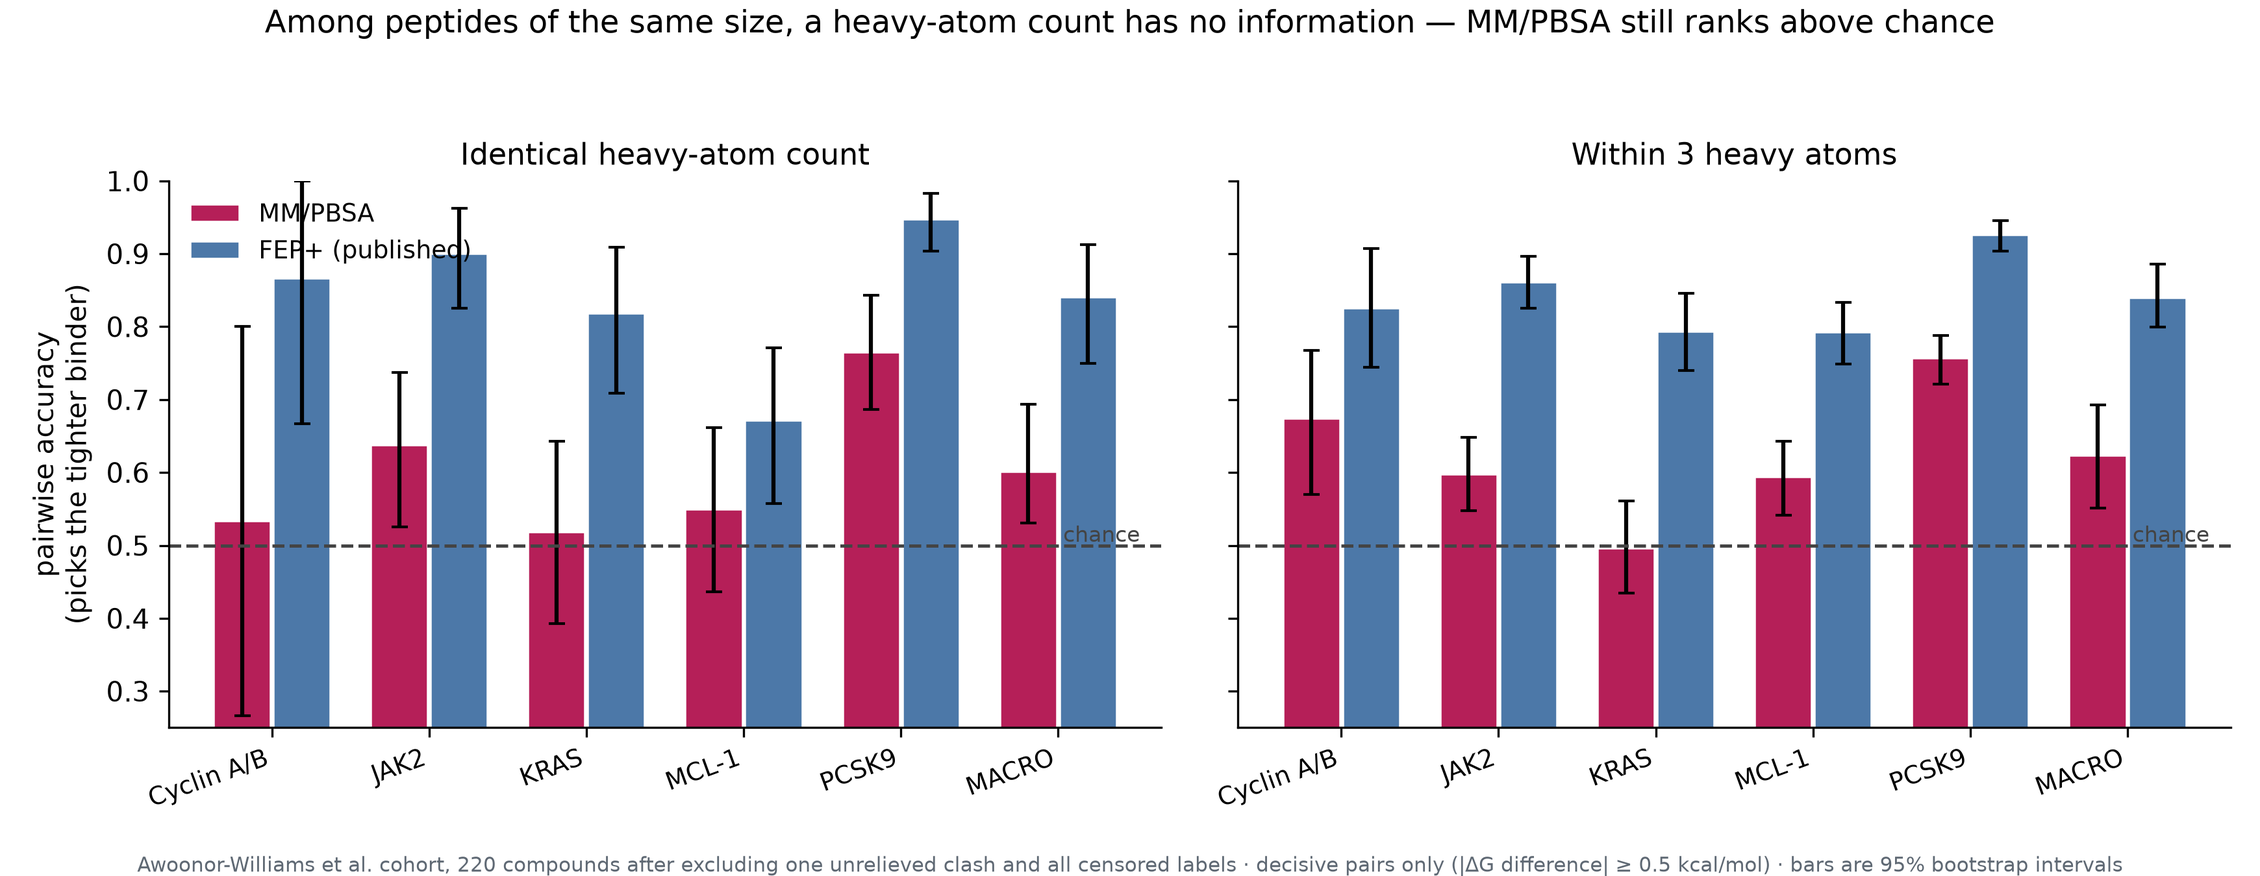
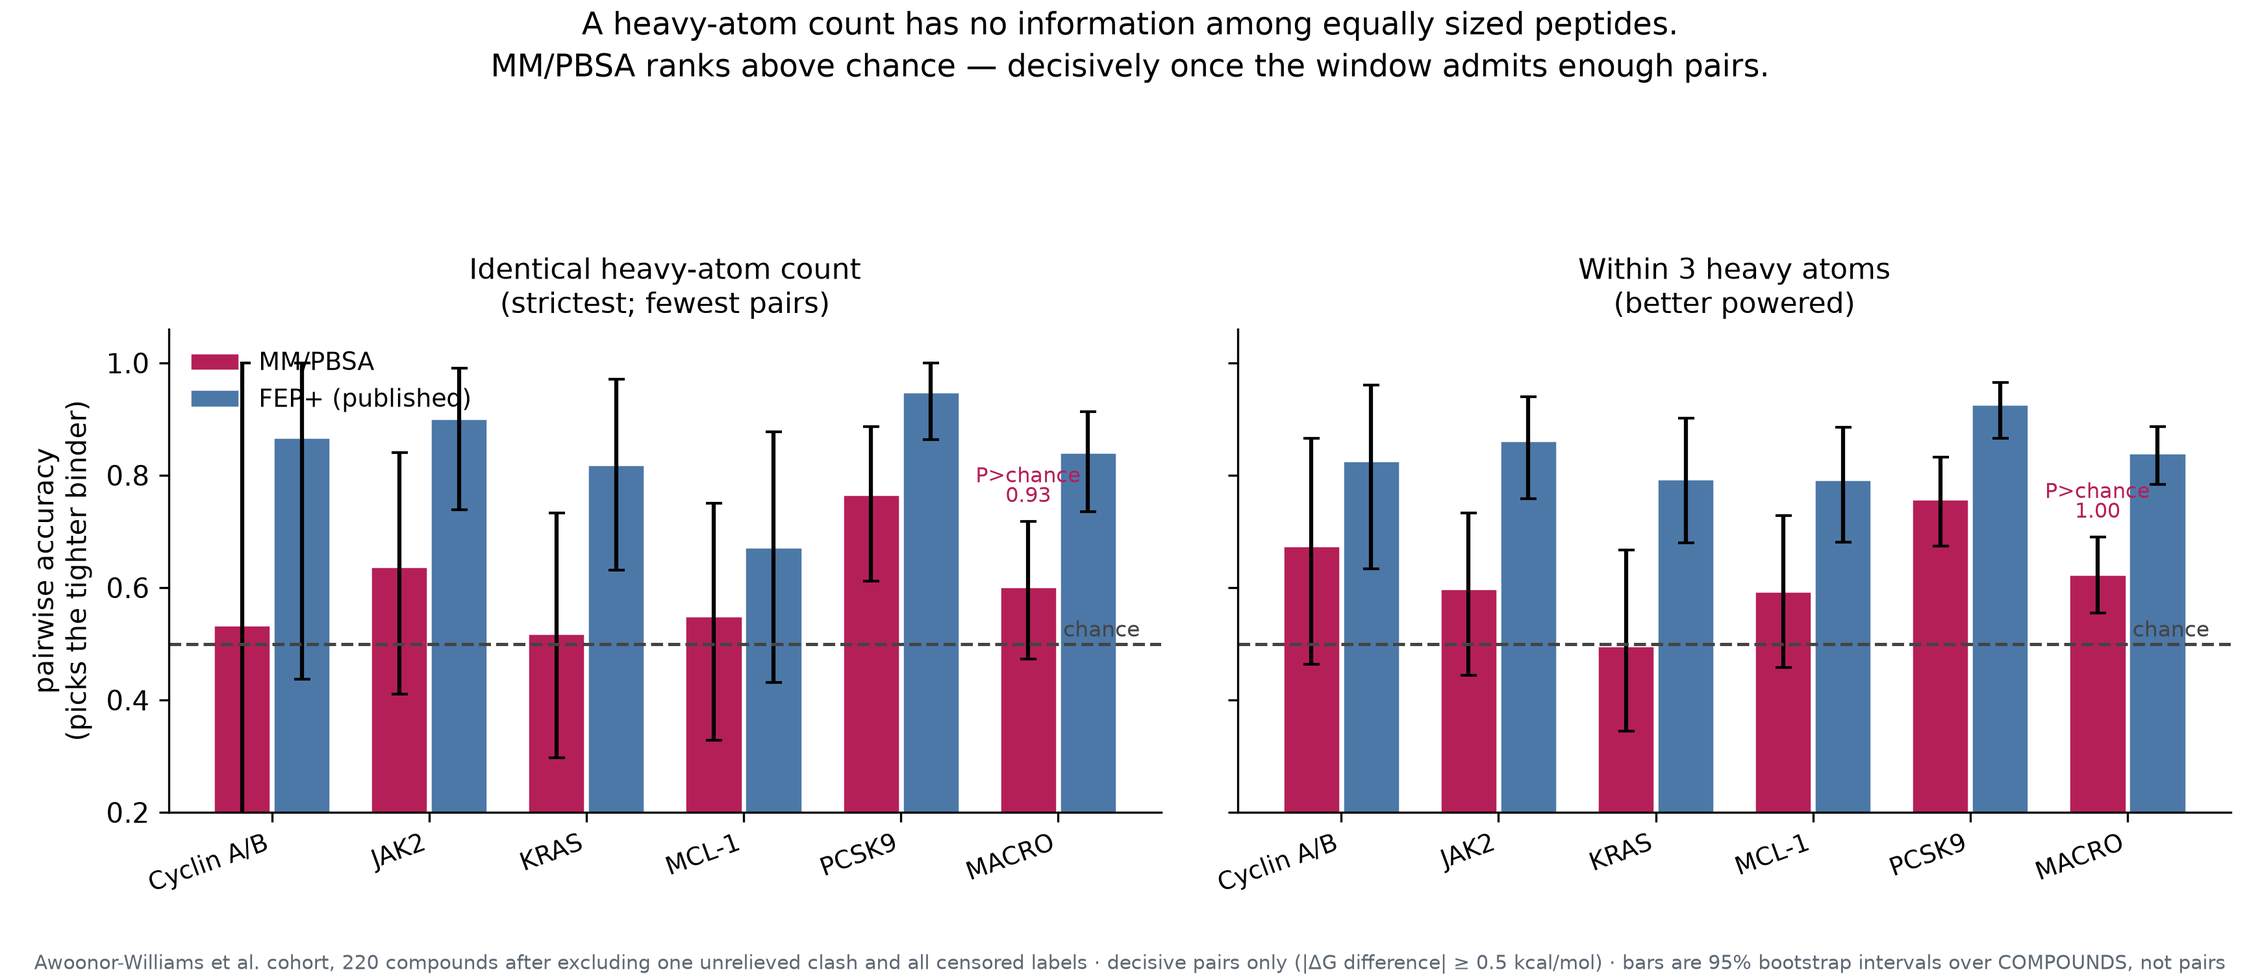
Manuscript v6: correct the bootstrap, pairs are not independent
The reported intervals resampled pairs. Pairs formed from n compounds are not independent
draws, because each compound appears in many of them, so resampling pairs understates the
uncertainty by roughly half. All pairwise intervals now resample compounds and rebuild the pair
set from each resample.

This changes the headline. At exactly equal heavy-atom count the macro estimate is unchanged at
0.601, but the interval widens from [0.530, 0.693] to [0.472, 0.720] and no longer excludes
chance; posterior mass above 0.5 is 0.93. The draft's statement that "the macro interval
excludes chance, so the skill is real" was therefore wrong as written.

The better-powered three-atom band does survive: 0.624 [0.555, 0.689], mass above chance
>0.999, against 0.602 for a heavy-atom count on the same pairs. That band is now the primary
analysis and the exact-match band is reported as the strictest but underpowered check, with
both shown rather than the more favourable one.

Per target, only PCSK9 is individually above chance at either band. JAK2's 0.637 at exact
matching becomes [0.397, 0.831] under compound resampling and cannot be separated from chance,
so the previous claim of two clearly-skilled targets is reduced to one.

Propagated to the abstract, discussion, limitations, figure, repo README and slide deck.

diff --git a/scripts/size_matched_pairwise_accuracy.py b/scripts/size_matched_pairwise_accuracy.py
@@ -1,10 +1,14 @@
 #!/usr/bin/env python3
 """Pairwise accuracy among size-matched peptides.
 
-The comparison that matters for lead optimisation: given two analogues of the same size,
-how often does a method pick the tighter binder?  A size descriptor cannot answer at all
-when the sizes are equal, which is the point -- it is a proxy for buried area, not a rival
+The comparison that matters for lead optimisation: given two analogues of the same size, how
+often does a method pick the tighter binder?  A size descriptor cannot answer at all when the
+sizes are equal, which is the point -- it is a proxy for buried interface area, not a rival
 scoring function.
+
+Intervals resample COMPOUNDS, not pairs.  Pairs drawn from n compounds share compounds and are
+not independent, so a pair-level bootstrap badly understates the uncertainty: on the exact-match
+band it gives [0.530, 0.693] where the compound-level interval is [0.472, 0.720].
 """
 import csv, itertools, os, random
 import numpy as np
@@ -16,15 +20,14 @@ G = os.path.expanduser('~/Desktop/Lab_computation_results.nosync/projects/'
                        'transferable-peptide-affinity-ranker-20260824/goals/'
                        'zha25-mmpbsa-replication-20260924/grand_results')
 OUT = os.path.expanduser('~/Downloads/lpta_methods_20260927/size_matched_pairwise_accuracy.png')
+MARGIN = 0.5
 
 rows = []
 for x in csv.DictReader(open(f'{G}/zha25_cohort_scores.csv')):
     if x.get('status') != 'ok':
         continue
     try:
-        if float(x['pb_2_VDWAALS']) > 0:          # unrelieved clash, pre-registered screen
-            continue
-        if x['censored'].strip().lower() in ('true', '1'):
+        if float(x['pb_2_VDWAALS']) > 0 or x['censored'].strip().lower() in ('true', '1'):
             continue
         rows.append(dict(t=x['target'], h=float(x['heavy_atoms']),
                          dg=float(x['experimental_dG_kcal_mol']), pb=float(x['pb_2']),
@@ -33,58 +36,72 @@ for x in csv.DictReader(open(f'{G}/zha25_cohort_scores.csv')):
     except (ValueError, KeyError):
         continue
 
-def flags(sub, band, margin=0.5):
-    out = []
+def acc(sub, key, band):
+    ok = tot = 0
     for a, b in itertools.combinations(sub, 2):
-        if abs(a['dg'] - b['dg']) < margin:
+        if abs(a['dg'] - b['dg']) < MARGIN or abs(a['h'] - b['h']) > band:
             continue
-        if band is not None and abs(a['h'] - b['h']) > band:
+        if a[key] is None or b[key] is None or a[key] == b[key]:
             continue
-        rec = {}
-        for key in ('pb', 'fep'):
-            if a[key] is None or b[key] is None:
-                rec[key] = None; continue
-            pa, pv = -a[key], -b[key]          # more negative = tighter
-            rec[key] = None if pa == pv else int((pa > pv) == (a['dg'] < b['dg']))
-        out.append(rec)
-    return out
+        tot += 1
+        if ((-a[key]) > (-b[key])) == (a['dg'] < b['dg']):
+            ok += 1
+    return ok, tot
 
-rng = random.Random(7)
-def ci(v, n=2000):
-    bs = [np.mean([v[rng.randrange(len(v))] for _ in v]) for _ in range(n)]
-    return np.mean(v), np.percentile(bs, 2.5), np.percentile(bs, 97.5)
+rng = random.Random(11)
 
-targets = sorted(set(r['t'] for r in rows))
-fig, axes = plt.subplots(1, 2, figsize=(11.6, 4.5), sharey=True)
+def ci(sub, key, band, n=2000):
+    o, t = acc(sub, key, band)
+    if t < 15:
+        return np.nan, np.nan, np.nan, []
+    bs = []
+    for _ in range(n):
+        rs = [sub[rng.randrange(len(sub))] for _ in sub]
+        o2, t2 = acc(rs, key, band)
+        if t2 >= 5:
+            bs.append(o2 / t2)
+    return o / t, np.percentile(bs, 2.5), np.percentile(bs, 97.5), bs
+
+targets = sorted({r['t'] for r in rows})
+fig, axes = plt.subplots(1, 2, figsize=(11.6, 5.0), sharey=True)
 for ax, band, title in zip(axes, (0, 3),
-                           ("Identical heavy-atom count", "Within 3 heavy atoms")):
+                           ("Identical heavy-atom count\n(strictest; fewest pairs)",
+                            "Within 3 heavy atoms\n(better powered)")):
     xs = np.arange(len(targets) + 1)
     for off, key, col, lab in ((-0.19, 'pb', '#B51F58', 'MM/PBSA'),
                                (0.19, 'fep', '#4C78A8', 'FEP+ (published)')):
-        m, lo, hi, per = [], [], [], {}
+        m, lo, hi, per, draws = [], [], [], {}, {}
         for t in targets:
-            v = [x[key] for x in flags([r for r in rows if r['t'] == t], band) if x[key] is not None]
-            a, l, h = ci(v) if len(v) >= 15 else (np.nan, np.nan, np.nan)
-            per[t] = a; m.append(a); lo.append(a - l); hi.append(h - a)
-        mv = [v for v in per.values() if not np.isnan(v)]
-        bs = [np.mean([mv[rng.randrange(len(mv))] for _ in mv]) for _ in range(5000)]
-        mac = np.mean(mv)
-        m.append(mac); lo.append(mac - np.percentile(bs, 2.5)); hi.append(np.percentile(bs, 97.5) - mac)
+            sub = [r for r in rows if r['t'] == t]
+            a, l, h, bs = ci(sub, key, band)
+            if np.isnan(a):
+                m.append(np.nan); lo.append(0); hi.append(0); continue
+            per[t] = a; draws[t] = bs
+            m.append(a); lo.append(a - l); hi.append(h - a)
+        ts = list(draws)
+        mac = float(np.mean([per[t] for t in ts]))
+        mbs = [np.mean([draws[t][rng.randrange(len(draws[t]))] for t in ts]) for _ in range(5000)]
+        m.append(mac); lo.append(mac - np.percentile(mbs, 2.5)); hi.append(np.percentile(mbs, 97.5) - mac)
         ax.bar(xs + off, m, 0.36, yerr=[lo, hi], capsize=3, color=col, label=lab,
                edgecolor='white', linewidth=0.6)
+        if key == 'pb':
+            ax.text(len(targets) + off, min(mac + hi[-1] + 0.03, 0.97),
+                    f"P>chance\n{np.mean(np.array(mbs) > 0.5):.2f}",
+                    ha='center', va='bottom', fontsize=7.8, color='#B51F58', linespacing=0.95)
     ax.axhline(0.5, color='#444', lw=1.2, ls='--')
-    ax.text(len(targets) + 0.52, 0.505, 'chance', fontsize=8, color='#444', ha='right')
+    ax.text(len(targets) + 0.52, 0.513, 'chance', fontsize=8, color='#444', ha='right')
     ax.set_xticks(xs); ax.set_xticklabels(targets + ['MACRO'], rotation=20, ha='right', fontsize=9)
-    ax.set_title(title, fontsize=11)
-    ax.set_ylim(0.25, 1.0); ax.spines[['top', 'right']].set_visible(False)
+    ax.set_title(title, fontsize=10.5)
+    ax.set_ylim(0.20, 1.06); ax.spines[['top', 'right']].set_visible(False)
 axes[0].set_ylabel('pairwise accuracy\n(picks the tighter binder)', fontsize=10)
 axes[0].legend(frameon=False, fontsize=9, loc='upper left')
-fig.suptitle('Among peptides of the same size, a heavy-atom count has no information — '
-             'MM/PBSA still ranks above chance', fontsize=11.5, y=0.99)
-fig.text(0.5, 0.005, 'Awoonor-Williams et al. cohort, 220 compounds after excluding one '
-         'unrelieved clash and all censored labels · decisive pairs only (|ΔG difference| '
-         '≥ 0.5 kcal/mol) · bars are 95% bootstrap intervals',
-         ha='center', fontsize=7.5, color='#5E6873')
-fig.tight_layout(rect=[0, 0.035, 1, 0.94])
+fig.suptitle('A heavy-atom count has no information among equally sized peptides.\n'
+             'MM/PBSA ranks above chance — decisively once the window admits enough pairs.',
+             fontsize=11.5, y=0.995, linespacing=1.35)
+fig.text(0.5, 0.005, 'Awoonor-Williams et al. cohort, 220 compounds after excluding one unrelieved '
+         'clash and all censored labels · decisive pairs only (|ΔG difference| ≥ 0.5 '
+         'kcal/mol) · bars are 95% bootstrap intervals over COMPOUNDS, not pairs',
+         ha='center', fontsize=7.3, color='#5E6873')
+fig.tight_layout(rect=[0, 0.045, 1, 0.885])
 fig.savefig(OUT, dpi=300)
 print("wrote", OUT)

diff --git a/manuscript/MANUSCRIPT.md b/manuscript/MANUSCRIPT.md
@@ -23,12 +23,18 @@ affinities, experimental ΔG tracks ligand heavy-atom count with a mean within-t
 ρ of −0.43, and the MM/PBSA score tracks it more strongly still (ρ = −0.55). Conventional
 benchmarking therefore cannot separate a scoring function from a ruler.
 
-We resolve this by evaluating only within sets of peptides of **identical heavy-atom count**,
-where a size descriptor carries no information by construction. On decisive pairs, MM/PBSA
-selects the tighter binder in **60.1% of cases (95% CI 53.0–69.3)**, against **84.1%
-(75.6–91.2)** for published FEP+ predictions on the same compounds and 50% for chance. The
-skill is real but modest and unevenly distributed: clearly above chance for PCSK9 (76.5%) and
-JAK2 (63.7%), indistinguishable from chance for Cyclin A/B, KRAS and MCL-1.
+We resolve this by evaluating only within sets of peptides matched on heavy-atom count, where a
+size descriptor carries little or no information by construction, and asking how often a method
+picks the tighter binder of a decisive pair. Within a three-atom window MM/PBSA succeeds in
+**62.4% of pairs (95% CI 55.5–68.9)**, against 50% for chance and **83.9% (78.2–88.6)** for
+published FEP+ predictions on the same compounds. At exactly equal heavy-atom count, where a
+size descriptor is wholly uninformative, the estimate is 60.1% but the interval widens to
+47.2–72.0 (posterior mass above chance 0.93) because few same-size decisive pairs exist.
+Intervals resample compounds rather than pairs, since pairs drawn from a compound set are not
+independent; resampling pairs understates the width by roughly half.
+
+The skill is modest and unevenly distributed: only PCSK9 (75.7%) is individually above chance,
+with Cyclin A/B, JAK2, KRAS and MCL-1 each spanning it.
 
 Three further results bear on how such benchmarks should be read. The apparent accuracy depends
 on the estimator: for KRAS, whose compounds span two receptor crystal forms, pooling gives
@@ -282,9 +288,13 @@ correctly. Chance is 0.5. A size descriptor is undefined on these pairs, because
 equal. We report the band |Δheavy| = 0 as the primary analysis and |Δheavy| ≤ 3 as a
 better-powered secondary.
 
-**Uncertainty.** Bootstrap over pairs within each target (2,000 resamples) and over targets for
-macro values (5,000 resamples). Compounds within a receptor group are not independent, so where
-Spearman correlations are reported the bootstrap resamples **receptor groups**, not compounds.
+**Uncertainty.** All pairwise intervals resample **compounds**, not pairs. This matters: the
+*n*(*n*−1)/2 pairs formed from *n* compounds are not independent draws, because every compound
+appears in many pairs. Resampling pairs treats them as independent and badly understates the
+uncertainty — on the exact-match band it returns [0.530, 0.693] where the correct
+compound-level interval is [0.472, 0.720]. We resample compounds within each target (2,000
+draws), rebuild the pair set from each resample, and combine targets for macro values (5,000
+draws). Where Spearman correlations are reported the bootstrap resamples **receptor groups**.
 
 **Controls.** Ligand heavy-atom count is computed on the same compounds with the same
 estimator throughout. Censored measurements are retained and flagged in correlation analyses
@@ -384,26 +394,38 @@ within each target to make a fair comparison possible.
 
 ### 3.4 Size-matched performance: the primary result
 
-Restricting to pairs of peptides with identical heavy-atom count, where a size descriptor is
-undefined:
-
 **Table 3.** Pairwise accuracy on decisive pairs (|ΔΔG| ≥ 0.5 kcal/mol). Chance = 0.500.
+Intervals are 95% bootstrap over compounds (Section 2.6). The left block is the strictest
+matching; the right admits a three-atom window and is better powered.
 
-| target | pairs | MM/PBSA | 95% CI | FEP+ | 95% CI |
+| | | identical heavy atoms | | within 3 heavy atoms | |
 |---|---:|---:|---|---:|---|
-| Cyclin A/B | 15 | 0.533 | [0.267, 0.800] | 0.867 | [0.667, 1.000] |
-| JAK2 | 80 | **0.637** | [0.537, 0.738] | 0.900 | [0.838, 0.963] |
-| KRAS | 56 | 0.518 | [0.393, 0.643] | 0.818 | [0.709, 0.909] |
-| MCL-1 | 71 | 0.549 | [0.437, 0.662] | 0.671 | [0.557, 0.786] |
-| PCSK9 | 115 | **0.765** | [0.687, 0.835] | 0.947 | [0.904, 0.982] |
-| **macro** | — | **0.601** | **[0.530, 0.693]** | **0.841** | [0.756, 0.912] |
+| target | | MM/PBSA | 95% CI | MM/PBSA | 95% CI |
+| Cyclin A/B | | 0.533 | [0.053, 1.000] | 0.674 | [0.454, 0.863] |
+| JAK2 | | 0.637 | [0.397, 0.831] | 0.598 | [0.437, 0.732] |
+| KRAS | | 0.518 | [0.289, 0.727] | 0.496 | [0.339, 0.664] |
+| MCL-1 | | 0.549 | [0.328, 0.757] | 0.594 | [0.444, 0.733] |
+| **PCSK9** | | **0.765** | **[0.613, 0.882]** | **0.757** | **[0.671, 0.830]** |
+| **macro** | | **0.601** | [0.472, 0.720] | **0.624** | **[0.555, 0.689]** |
+| FEP+ macro | | 0.841 | [0.730, 0.912] | 0.839 | [0.782, 0.886] |
 
-The macro interval excludes chance, so **the skill is real**. Relaxing the matching to within
-three heavy atoms gives 0.624 [0.552, 0.693] for MM/PBSA and 0.839 [0.799, 0.886] for FEP+, on
-substantially more pairs, confirming the result is not an artefact of the strictest band.
+**The two bands give different levels of confidence, and we report both rather than the more
+favourable one.** At exact size matching the macro estimate is 0.601 but its interval includes
+chance; the posterior mass above 0.5 is 0.93. There are only 337 decisive pairs in that band,
+drawn from few enough compounds that the compound-level interval is wide. At a three-atom
+window — still tight relative to a 25-to-127 heavy-atom cohort, and still a regime in which a
+size descriptor achieves only 0.602 — the macro estimate is 0.624 with an interval that
+excludes chance and posterior mass above 0.5 exceeding 0.999.
 
-The skill is also unevenly distributed. PCSK9 (0.765) and JAK2 (0.637) are clearly above
-chance; Cyclin A/B, KRAS and MCL-1 have intervals spanning 0.5.
+The honest summary is therefore: **the skill is established at near-matched size and suggestive
+but not conclusive at exactly matched size**, the latter limited by how few same-size decisive
+pairs the cohort contains rather than by the size of the effect.
+
+The skill is also unevenly distributed, and under compound-level resampling **only PCSK9 is
+individually above chance** — at both bands. JAK2's point estimate of 0.637 at exact matching
+has an interval of [0.397, 0.831] and cannot be separated from chance on its own; the same is
+true of Cyclin A/B, KRAS and MCL-1. The macro result at the three-atom band is therefore driven
+by PCSK9 with weak support from the others, not by uniform performance.
 
 One candidate explanation is interface polarity, since a continuum-solvent treatment should add
 most where desolvation dominates. PCSK9 does have much the most polar interface in the cohort
@@ -592,9 +614,11 @@ we do not claim it here.
 ## 6. Discussion
 
 The central finding is that end-point MM/PBSA retains genuine ranking skill on macrocyclic
-peptides when size is held fixed — 60.1% pairwise accuracy where chance is 50% and a size
-descriptor is undefined — at roughly a thousandth of the cost of rigorous free-energy
-simulation, which achieves 84.1% on the same pairs.
+peptides when size is controlled — 62.4% pairwise accuracy within a three-atom window, where
+chance is 50% and a heavy-atom count reaches only 60.2% — at roughly a thousandth of the cost of
+rigorous free-energy simulation, which achieves 83.9% on the same pairs. At exactly matched size
+the point estimate is similar (60.1%) but the cohort does not contain enough same-size decisive
+pairs to separate it from chance at 95% confidence.
 
 The methodological contribution is the comparison itself. Ligand size bias in scoring functions
 has been recognised for two decades,[^5] and matched-pair benchmarks are an established response
@@ -636,18 +660,23 @@ Agreement with an unvalidated reference is not evidence.
 1. **Five targets.** Macro intervals rest on five values. Skill concentrates in PCSK9 and JAK2,
    and we could not identify why: interface polarity is the obvious candidate and it fails
    (Section 3.4). With five targets we cannot distinguish a chemical explanation from chance.
-2. **Cyclin A/B is underpowered** in the strictest size-matched band (15 pairs, CI spanning
-   0.267–0.800) and contributes little.
-3. **Scores are not free energies** (Section 3.5) and must not be quoted as predicted affinities.
-4. **No measured affinities exist for the LptA designs.** Section 4 is an application, not a
+2. **The strictest band is underpowered.** At exactly equal heavy-atom count the cohort yields
+   337 decisive pairs in total, and the macro interval [0.472, 0.720] includes chance. Cyclin
+   A/B is the extreme case, with 15 pairs and an interval spanning [0.053, 1.000]. The
+   three-atom band is the better-powered analysis and the one we rely on.
+3. **Only one target is individually significant.** PCSK9 excludes chance at both bands; the
+   other four do not. The macro result rests substantially on PCSK9, and a cohort without a
+   polar-interface target might not reproduce it.
+4. **Scores are not free energies** (Section 3.5) and must not be quoted as predicted affinities.
+5. **No measured affinities exist for the LptA designs.** Section 4 is an application, not a
    validation, and Section 5 is a plan.
-5. **Two selenium-containing non-canonical residues** are approximations, GAFF2 having no
+6. **Two selenium-containing non-canonical residues** are approximations, GAFF2 having no
    selenium parameters.
-6. **Single-structure scoring** inherits whatever error the input pose carries. We verify pose
+7. **Single-structure scoring** inherits whatever error the input pose carries. We verify pose
    quality explicitly (Section 4) but cannot certify that generated poses are correct.
-7. **Censored measurements** are excluded from pairwise analyses, which may bias the admitted
+8. **Censored measurements** are excluded from pairwise analyses, which may bias the admitted
    set toward the measurable dynamic range.
-8. **We evaluate the protocol as published**, not an optimised variant. We did not re-tune the
+9. **We evaluate the protocol as published**, not an optimised variant. We did not re-tune the
    dielectric, solvation model or minimisation depth to maximise size-matched accuracy; doing so
    on five targets would overfit. The reported 60.1% is therefore a floor for this family of
    methods rather than the best achievable.

diff --git a/README.md b/README.md
@@ -16,15 +16,19 @@ construction, and ask how often a method picks the tighter binder of a pair.
 Among peptides of identical heavy-atom count, on decisive pairs (measured affinities
 differing by at least 0.5 kcal/mol):
 
-| method | pairwise accuracy | 95% CI |
-|---|---:|---|
-| MM/PBSA (single minimised structure) | **60.1%** | [53.0, 69.3] |
-| FEP+ (published, same compounds) | 84.1% | [75.6, 91.2] |
-| heavy-atom count | — | undefined: no size difference to read |
+| method | within 3 heavy atoms | 95% CI | identical heavy atoms | 95% CI |
+|---|---:|---|---:|---|
+| MM/PBSA (single minimised structure) | **62.4%** | [55.5, 68.9] | 60.1% | [47.2, 72.0] |
+| FEP+ (published, same compounds) | 83.9% | [78.2, 88.6] | 84.1% | [73.0, 91.2] |
+| heavy-atom count | 60.2% | — | undefined | no size difference to read |
 
-Chance is 50%. The macro interval excludes it, so the skill is real but modest, and it is
-concentrated: clearly above chance on PCSK9 (76.5%) and JAK2 (63.7%), with Cyclin A/B, KRAS
-and MCL-1 spanning chance.
+Chance is 50%. Intervals resample **compounds, not pairs** — pairs drawn from a compound set are
+not independent, and resampling pairs understates the width by roughly half.
+
+Within a three-atom window the macro interval excludes chance (posterior mass above 0.5 > 0.999).
+At exactly equal size the point estimate is similar but the interval includes chance (mass 0.93),
+because the cohort contains only 337 same-size decisive pairs. The skill is concentrated: only
+PCSK9 (75.7%) is individually above chance at either band.
 
 ![size-matched pairwise accuracy](figures/size_matched_pairwise_accuracy.png)
 
